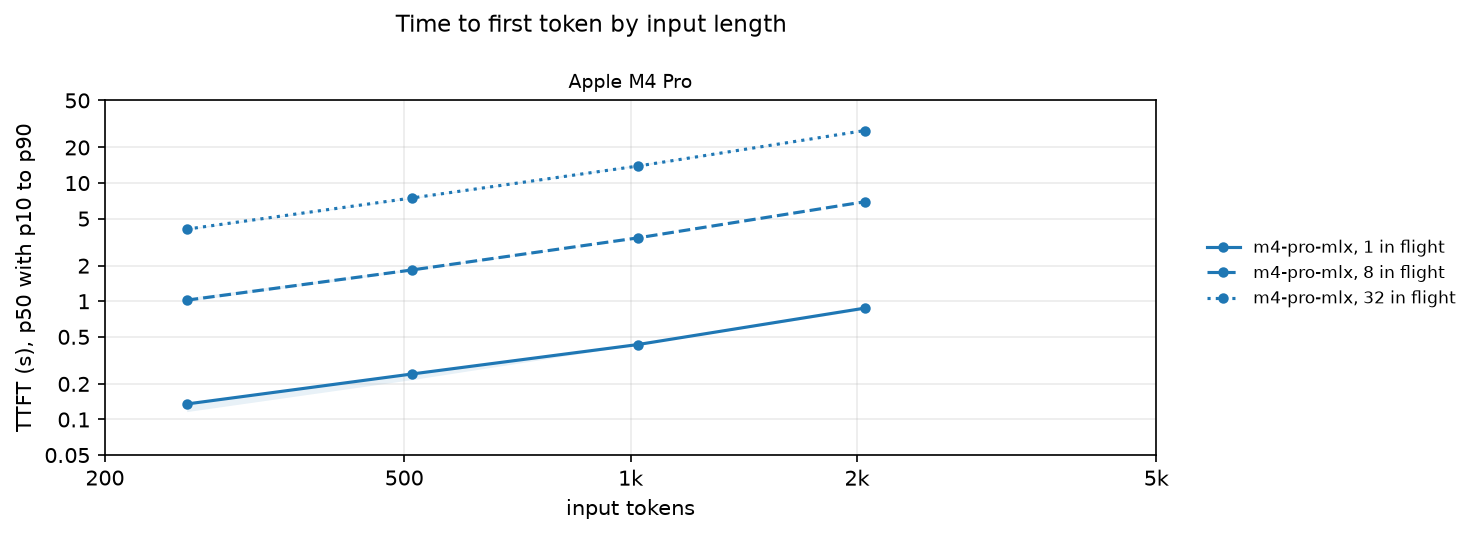
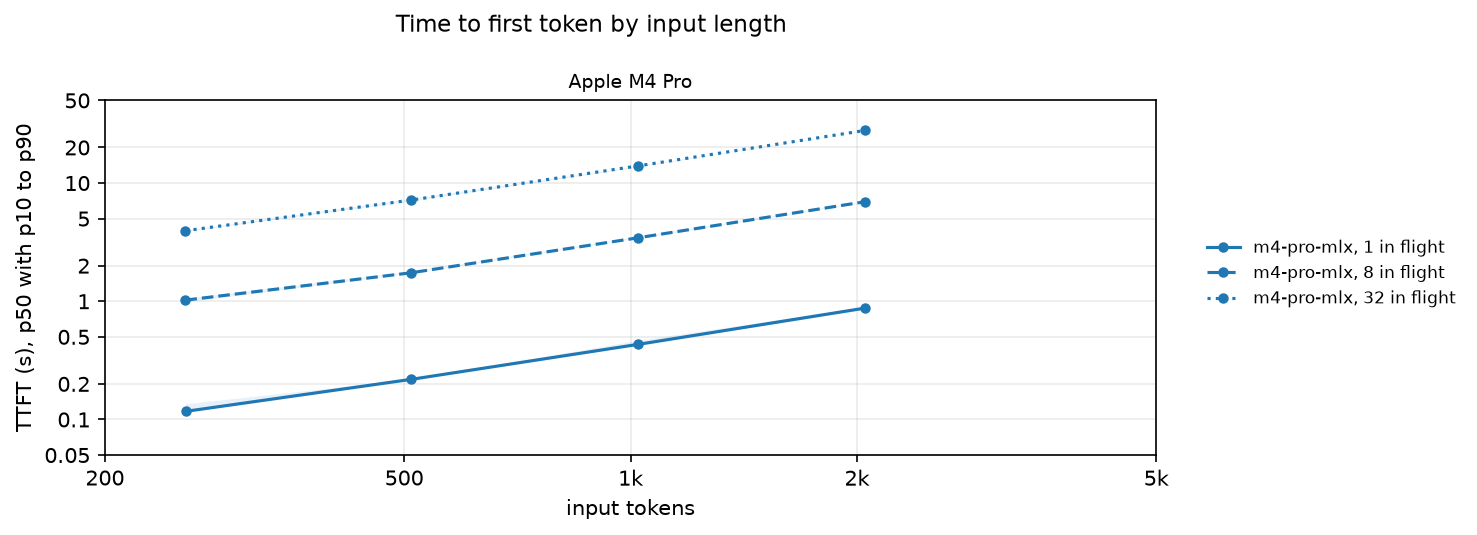
feat(benchmarks): M4 Pro full-suite run (cold-start + ttft + jevbench)
Validates the new --cold-start flag end to end on the M4 Pro MLX
backend. All four tests of benchmarks/benchmarking.md run in one
invocation.

Numbers:
- Cold-start at ~256 tokens: 475 ms (client) / 474 ms (server),
  vs warm p50 135 ms at the same shape — 3.5x penalty on first request.
- Latency doubles per doubling of input tokens at N=1 (135 / 243 / 431 /
  875 ms for 256 / 512 / 1024 / 2048).
- Throughput flat across concurrency (batch of 1): 7.8 / 4.5 / 2.3 /
  1.15 dps at 256 / 512 / 1024 / 2048. No batching.
- JevBench 176/231 (0.762), schema validity 1.0.

Host matrix row updated with the full status line. Charts regenerated;
ttft_vs_throughput.png removed (still degenerate on batch-of-1).
Compact.py also kept accuracy.csv since jevbench ran.

diff --git a/benchmarks/README.md b/benchmarks/README.md
@@ -41,7 +41,7 @@ evolves (today's batch-of-1 engine; the batching PR; stock vLLM for a non-decide
 
 | Host | Serving stack | Model | Run directory | Status |
 | --- | --- | --- | --- | --- |
-| Apple M4 Pro | strands_decider (batch of 1) | 2B hobson-v21 | [`runs/m4-pro-mlx-2b-v21/`](runs/m4-pro-mlx-2b-v21/) | Indicative — `--concurrency 1,8,32`, 50 reqs/cell |
+| Apple M4 Pro | strands_decider (batch of 1) | 2B hobson-v21 | [`runs/m4-pro-mlx-2b-v21/`](runs/m4-pro-mlx-2b-v21/) | 2026-10-26: `--cold-start --metrics ttft,jevbench --input-length 256,512,1024,2048 --concurrency 1,8,32 -n 50`. Cold 475 ms vs warm 135 ms at 256 tok. Peak 7.8 dps / 4.5 dps / 2.3 dps / 1.15 dps at 256 / 512 / 1024 / 2048 tok (flat across N — no batching). JevBench 176/231 (0.762). All 600 ttft reqs ok. |
 
 ### Supported deploy targets, not yet measured
 
